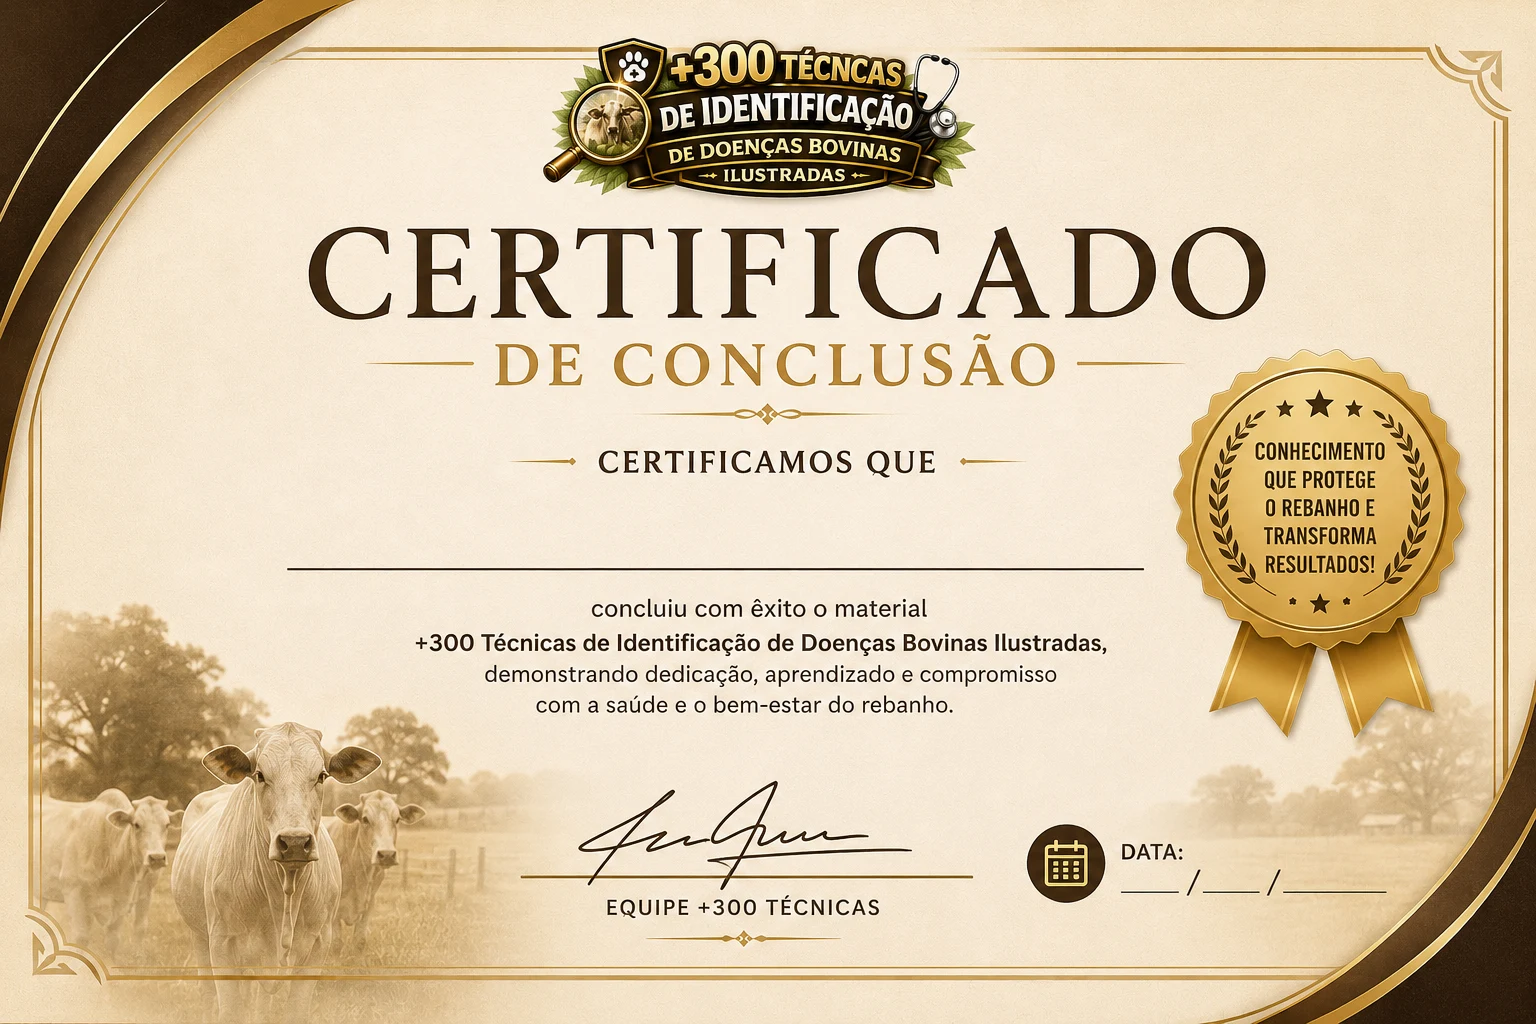
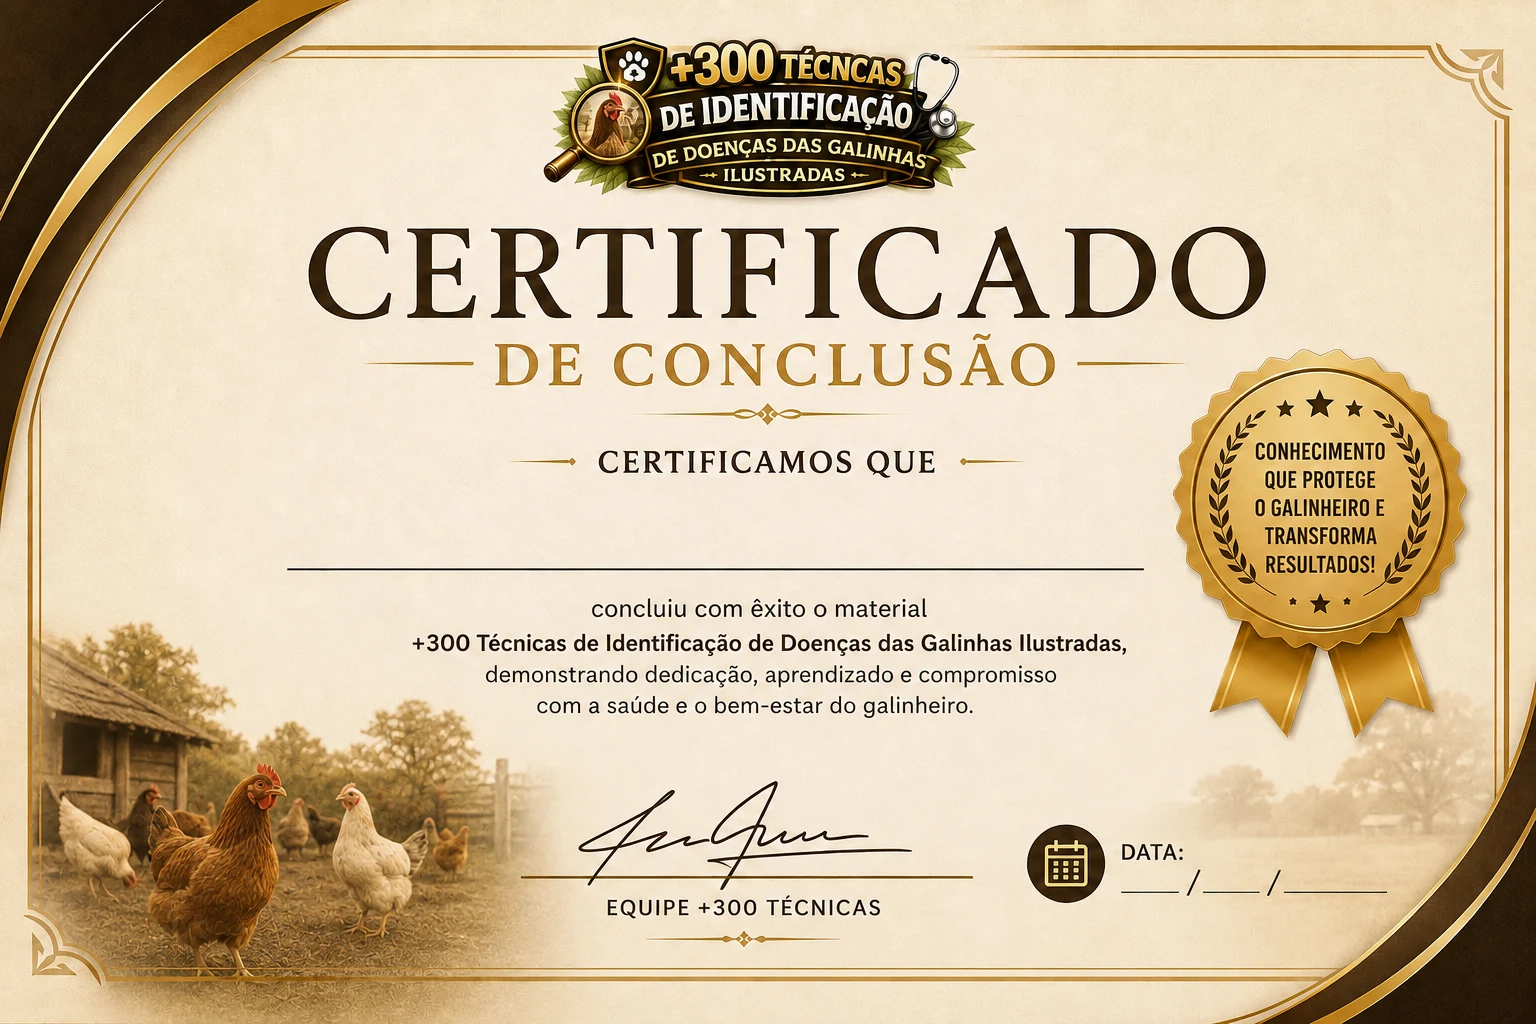
feat(aves): certificado de galinhas + area de membros gera o certo por oferta
- Substitui o certificado de vacas pelo de galinhas (mesmo layout 1536x1024)
- Membros: usa o certificado de aves para quem comprou aves, vacas para bovinos

diff --git a/src/pages/Membros.tsx b/src/pages/Membros.tsx
@@ -195,13 +195,13 @@ export default function Membros() {
       </main>
 
       {certOpen && (
-        <CertificateModal defaultName={customerName || ""} onClose={() => setCertOpen(false)} gold={brand.gold} forest={brand.forest} />
+        <CertificateModal defaultName={customerName || ""} template={isAves ? "/aves/certificado-base.webp" : "/saudebovina/certificado-base.webp"} onClose={() => setCertOpen(false)} gold={brand.gold} forest={brand.forest} />
       )}
     </div>
   );
 }
 
-function CertificateModal({ defaultName, onClose, gold, forest }: { defaultName: string; onClose: () => void; gold: string; forest: string }) {
+function CertificateModal({ defaultName, template, onClose, gold, forest }: { defaultName: string; template: string; onClose: () => void; gold: string; forest: string }) {
   const [name, setName] = useState(defaultName);
   const canvasRef = useRef<HTMLCanvasElement>(null);
   const templateRef = useRef<HTMLImageElement | null>(null);
@@ -210,7 +210,7 @@ function CertificateModal({ defaultName, onClose, gold, forest }: { defaultName:
   useEffect(() => {
     const img = new Image();
     img.onload = () => { templateRef.current = img; setReady(true); };
-    img.src = "/saudebovina/certificado-base.webp";
+    img.src = template;
   }, []);
 
   useEffect(() => {
